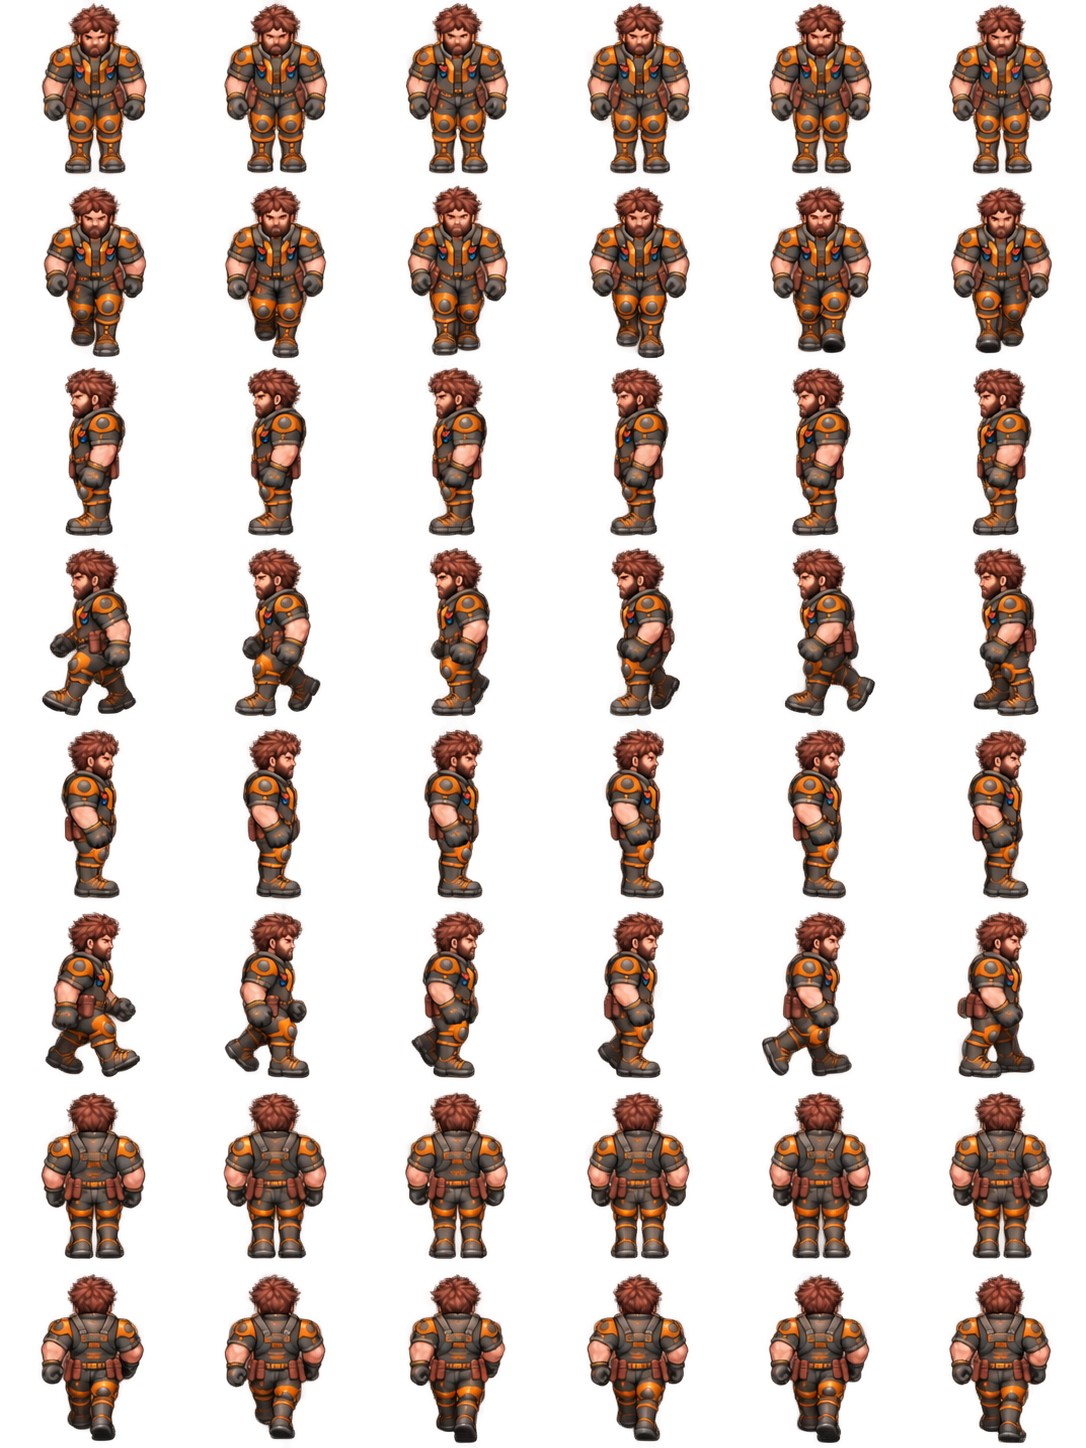
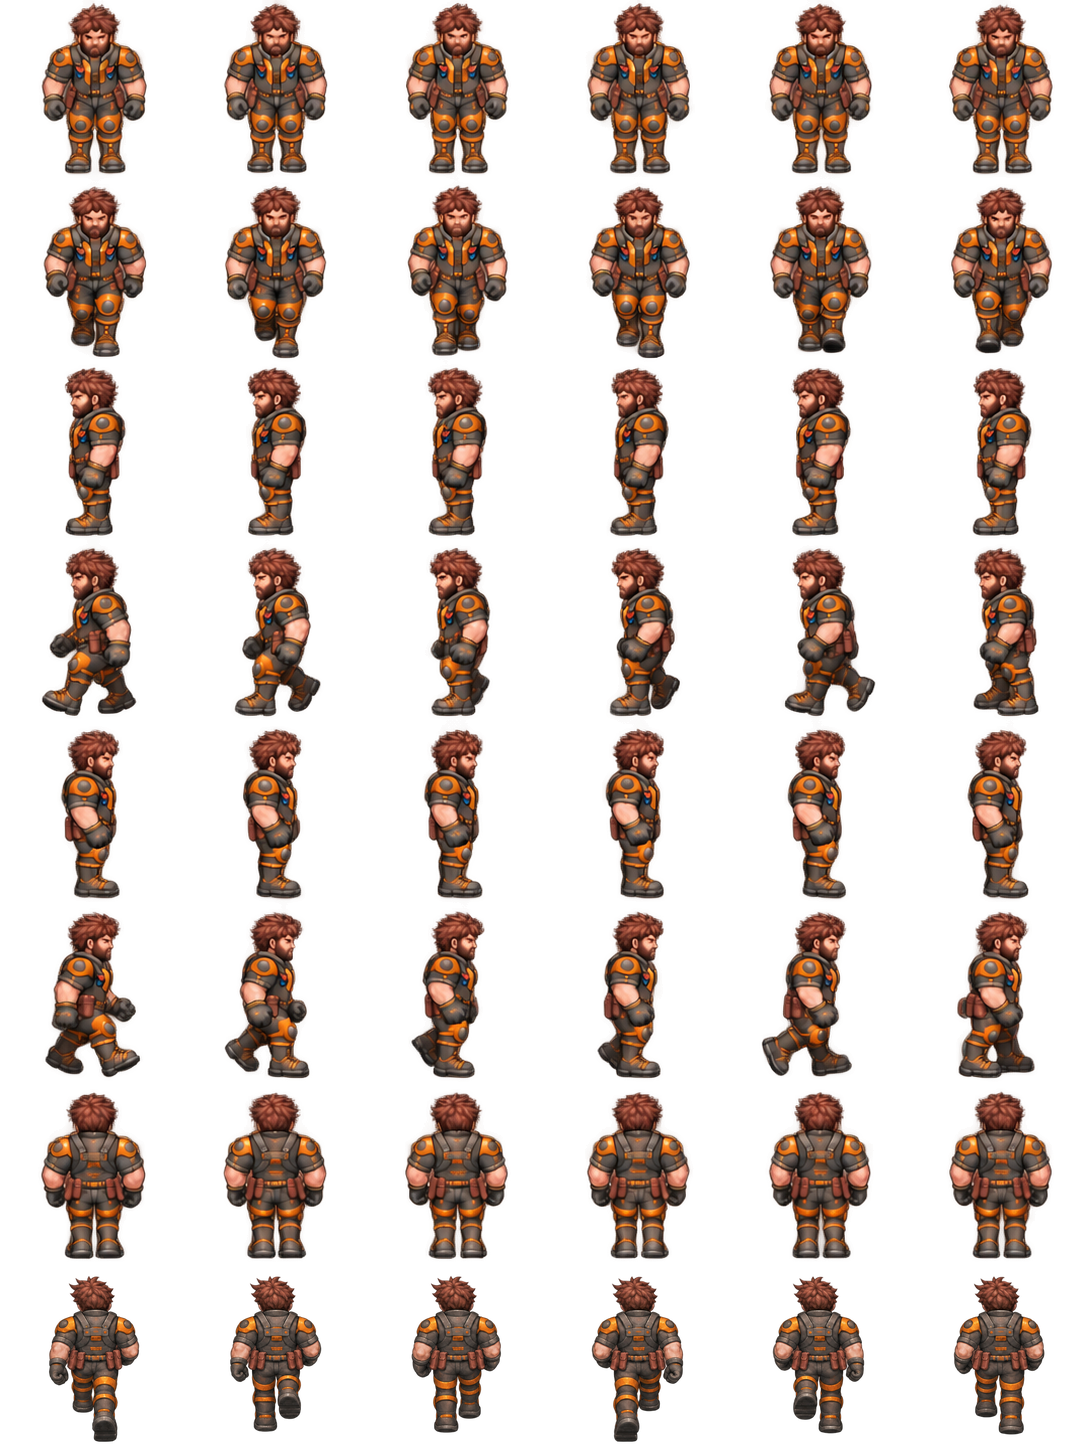
Refine Dave north walking animation

diff --git a/tests/static_dave_rework_test.py b/tests/static_dave_rework_test.py
@@ -40,7 +40,7 @@ class DaveReworkStaticTest(unittest.TestCase):
     def test_cleaned_png_integrity_visible_margins_and_import(self):
         raw = (ROOT / (ART + '.png')).read_bytes()
         self.assertEqual(hashlib.sha256(raw).hexdigest(),
[2 lines of base64/hex data omitted]
         w, h, pixels = png(raw)  # CRCs, RGBA8888 and every scanline.
         self.assertEqual((w, h), (1086, 1448))
         self.assertEqual((min(pixels[3::4]), max(pixels[3::4])), (0, 255))
@@ -52,7 +52,7 @@ class DaveReworkStaticTest(unittest.TestCase):
                 self.assertTrue(visible)
                 self.assertTrue(all(0 < x < 180 and 0 < y < 180 for x, y in visible))
                 heights.append(max(y for x, y in visible)-min(y for x, y in visible)+1)
-        self.assertEqual((min(heights), max(heights)), (163, 172))
+        self.assertEqual((min(heights), max(heights)), (155, 172))
         # Faint source edge residue is retained; do not claim zero-alpha gutters.
         self.assertLessEqual(max(pixels[(y*w+x)*4+3] for y in range(h) for x in range(w)
                                  if x % 181 in (0, 180) or y % 181 in (0, 180)), 26)
@@ -60,6 +60,45 @@ class DaveReworkStaticTest(unittest.TestCase):
         for value in ['compress/mode=0', 'mipmaps/generate=false', 'process/size_limit=0',
                       f'source_file="res://{ART}.png"']:
             self.assertIn(value, settings)
+
+    def test_north_v2_sources_and_only_six_replaced_cells(self):
+        source = ROOT / 'assets/characters/dave/source_art/north_walk_v2'
+        self.assertTrue((source / '.gdignore').is_file())
+        for name, digest in [
+            ('dave_walk_north_v2_refined.png',
[1 lines of base64/hex data omitted]
+            ('dave_walk_north_v2.json',
[1 lines of base64/hex data omitted]
+        ]:
+            self.assertEqual(hashlib.sha256((source / name).read_bytes()).hexdigest(), digest)
+        data = json.loads((source / 'dave_walk_north_v2.json').read_bytes())
+        self.assertEqual(data['meta']['image'], 'dave_walk_north_v2_refined.png')
+        self.assertEqual(png((source / data['meta']['image']).read_bytes())[:2], (1536, 1024))
+        self.assertEqual(data['meta']['frameTags'],
+                         [{'name': 'walk_north', 'from': 0, 'to': 5, 'direction': 'forward'}])
+        self.assertEqual(list(data['frames']), [f'walk_north_{i:02}' for i in range(6)])
+        for i, frame in enumerate(data['frames'].values()):
+            self.assertEqual(frame['frame'],
+                             {'x': i % 3 * 512, 'y': i // 3 * 512, 'w': 512, 'h': 512})
+            self.assertEqual(frame['duration'], 100)
+            self.assertFalse(frame['rotated'])
+            self.assertFalse(frame['trimmed'])
+        w, h, pixels = png((ROOT / (ART + '.png')).read_bytes())
+        # Original decoded RGBA for all 42 untouched cells, including hidden RGB.
+        self.assertEqual(hashlib.sha256(pixels[:w*1267*4]).hexdigest(),
[1 lines of base64/hex data omitted]
+        expected = [
[6 lines of base64/hex data omitted]
+        ]
+        for i, digest in enumerate(expected):
+            cell = b''.join(pixels[(y*w+i*181)*4:(y*w+(i+1)*181)*4]
+                            for y in range(1267, h))
+            self.assertEqual(hashlib.sha256(cell).hexdigest(), digest)
 
     def test_animation_grid_order_timing_and_shared_anchor(self):
         scene = read('scenes/player/dave.tscn')

diff --git a/README.md b/README.md
@@ -2203,6 +2203,74 @@ delay remains separate in [issue #144](https://github.com/interneth3ro/the-long-
 Keep the PR draft until acceptance; merge and later asset cleanup require separate
 owner action. No old Dave assets are deleted here.
 
+### Dave north walking v2 (feature branch, pending owner acceptance and merge)
+
+`codex/dave-north-walk-v2` replaces only atlas cells 42-47 using the owner's
+`artifacts/tmp/dave-north-walk-v2/dave_walk_north_v2_refined.png` and matching
+JSON. Exact supplied bytes are retained under
+`assets/characters/dave/source_art/north_walk_v2/`; `.gdignore` keeps these
+high-resolution references out of engine imports. Embedded prompts and preview
+measurements remain historical provenance, not runtime instructions. The active
+`dave_idle_walk_4dir.json` remains authoritative and unchanged.
+
+Source SHA-256 identities:
+
[2 lines of base64/hex data omitted]
+
+The original runtime atlas remains in Git at baseline
+`b2e1c8fcce98e318620acfeaafd56905af58d874`, with SHA-256
[1 lines of base64/hex data omitted]
+An exact local backup also remains in ignored
+`artifacts/tmp/dave-north-walk-v2/original_runtime_atlas.png` through acceptance.
+Resulting atlas SHA-256:
[1 lines of base64/hex data omitted]
+
+Deterministic conversion used Python and Pillow 13.0.0, installed only in the
+ignored task directory. Read the six 512-square cells left to right, top then
+bottom. For each cell, preserve RGB and clear alpha 1-4 only outside a three-pixel
+Chebyshev neighborhood of any alpha >=16 source pixel (the previous atlas's
+conservative residue rule). Resize the entire RGBA cell to 210 x 210 using
+`Image.Resampling.LANCZOS`; Pillow's RGBA resampling uses premultiplied alpha.
+Crop `(11,2,192,183)` to obtain an exact 181 x 181 cell and paste without a mask
+at `(181*i,1267)` for source frame `i`. No per-frame registration, pose editing,
+independent axis scaling or generative artwork changes occur.
+
+Uniform artwork scale is `210/512 = 0.41015625`; source reference `(256,430)`
+lands at `(94,174.3671875)`, close to the established `(94,174)` anchor. This
+transform is derived from the existing 166-pixel north-walk contact height,
+not the source JSON's preview gameplay scale. Contact silhouettes are 165 pixels
+high; lifted-foot silhouettes are 155-157 pixels. Alpha >=128 bounds, as
+exclusive rectangles, are `(49,10,139,175)`, `(49,10,140,165)`,
+`(50,10,139,166)`, `(49,10,140,175)`, `(49,10,140,166)`, `(49,10,139,167)`.
+The artwork is slightly narrower than the previous north walk; supplied
+proportions are preserved. Whether this difference and the idle/walk transition
+are acceptable remains an owner visual decision. No Sprite2D or gameplay scale
+was changed to compensate.
+
+The 1086 x 1448 atlas, all first 42 cells (including invisible RGB), runtime
+mapping, eight clip names, 100 ms walking frames, scale, offset, import metadata,
+controller, collision, camera and unrelated gameplay remain unchanged. The
+preserved first 42 cells' decoded RGBA SHA-256 is
[1 lines of base64/hex data omitted]
+The focused static test checks both exact source identities, grid/order/timing,
+replacement cell identities, untouched cells and existing nonvisual contracts.
+
+Static gray-background comparison of north idle, original walk and replacement
+walk found leg-role reversal, retained costume detail and no visible clipping or
+background haze. It is an image inspection, not graphical Godot verification.
+Faint edge residue in untouched frames remains as previously documented. No
+Godot import, headless run, playable scene or performance test was performed.
+Keep the PR draft for owner normal-F5 acceptance:
+
+- [ ] Correct alternating stride, low passing poses and smooth six-frame loop.
+- [ ] Stable north idle/walk transitions, apparent size and grounded foot anchor.
+- [ ] No distracting sliding, bobbing, jumping, clipping, halos or frame bleed.
+- [ ] All other animations, movement, collisions, camera and interactions unchanged.
+- [ ] Responsive ship interior/exterior gameplay; record PASS/FAIL and observations.
+
+East/west refinement, overall visual scale and cadence tuning remain separate work.
+
 ### Existing environment and gameplay
 
 The camera follows Dave's ground-contact origin independently of `Visual`.
